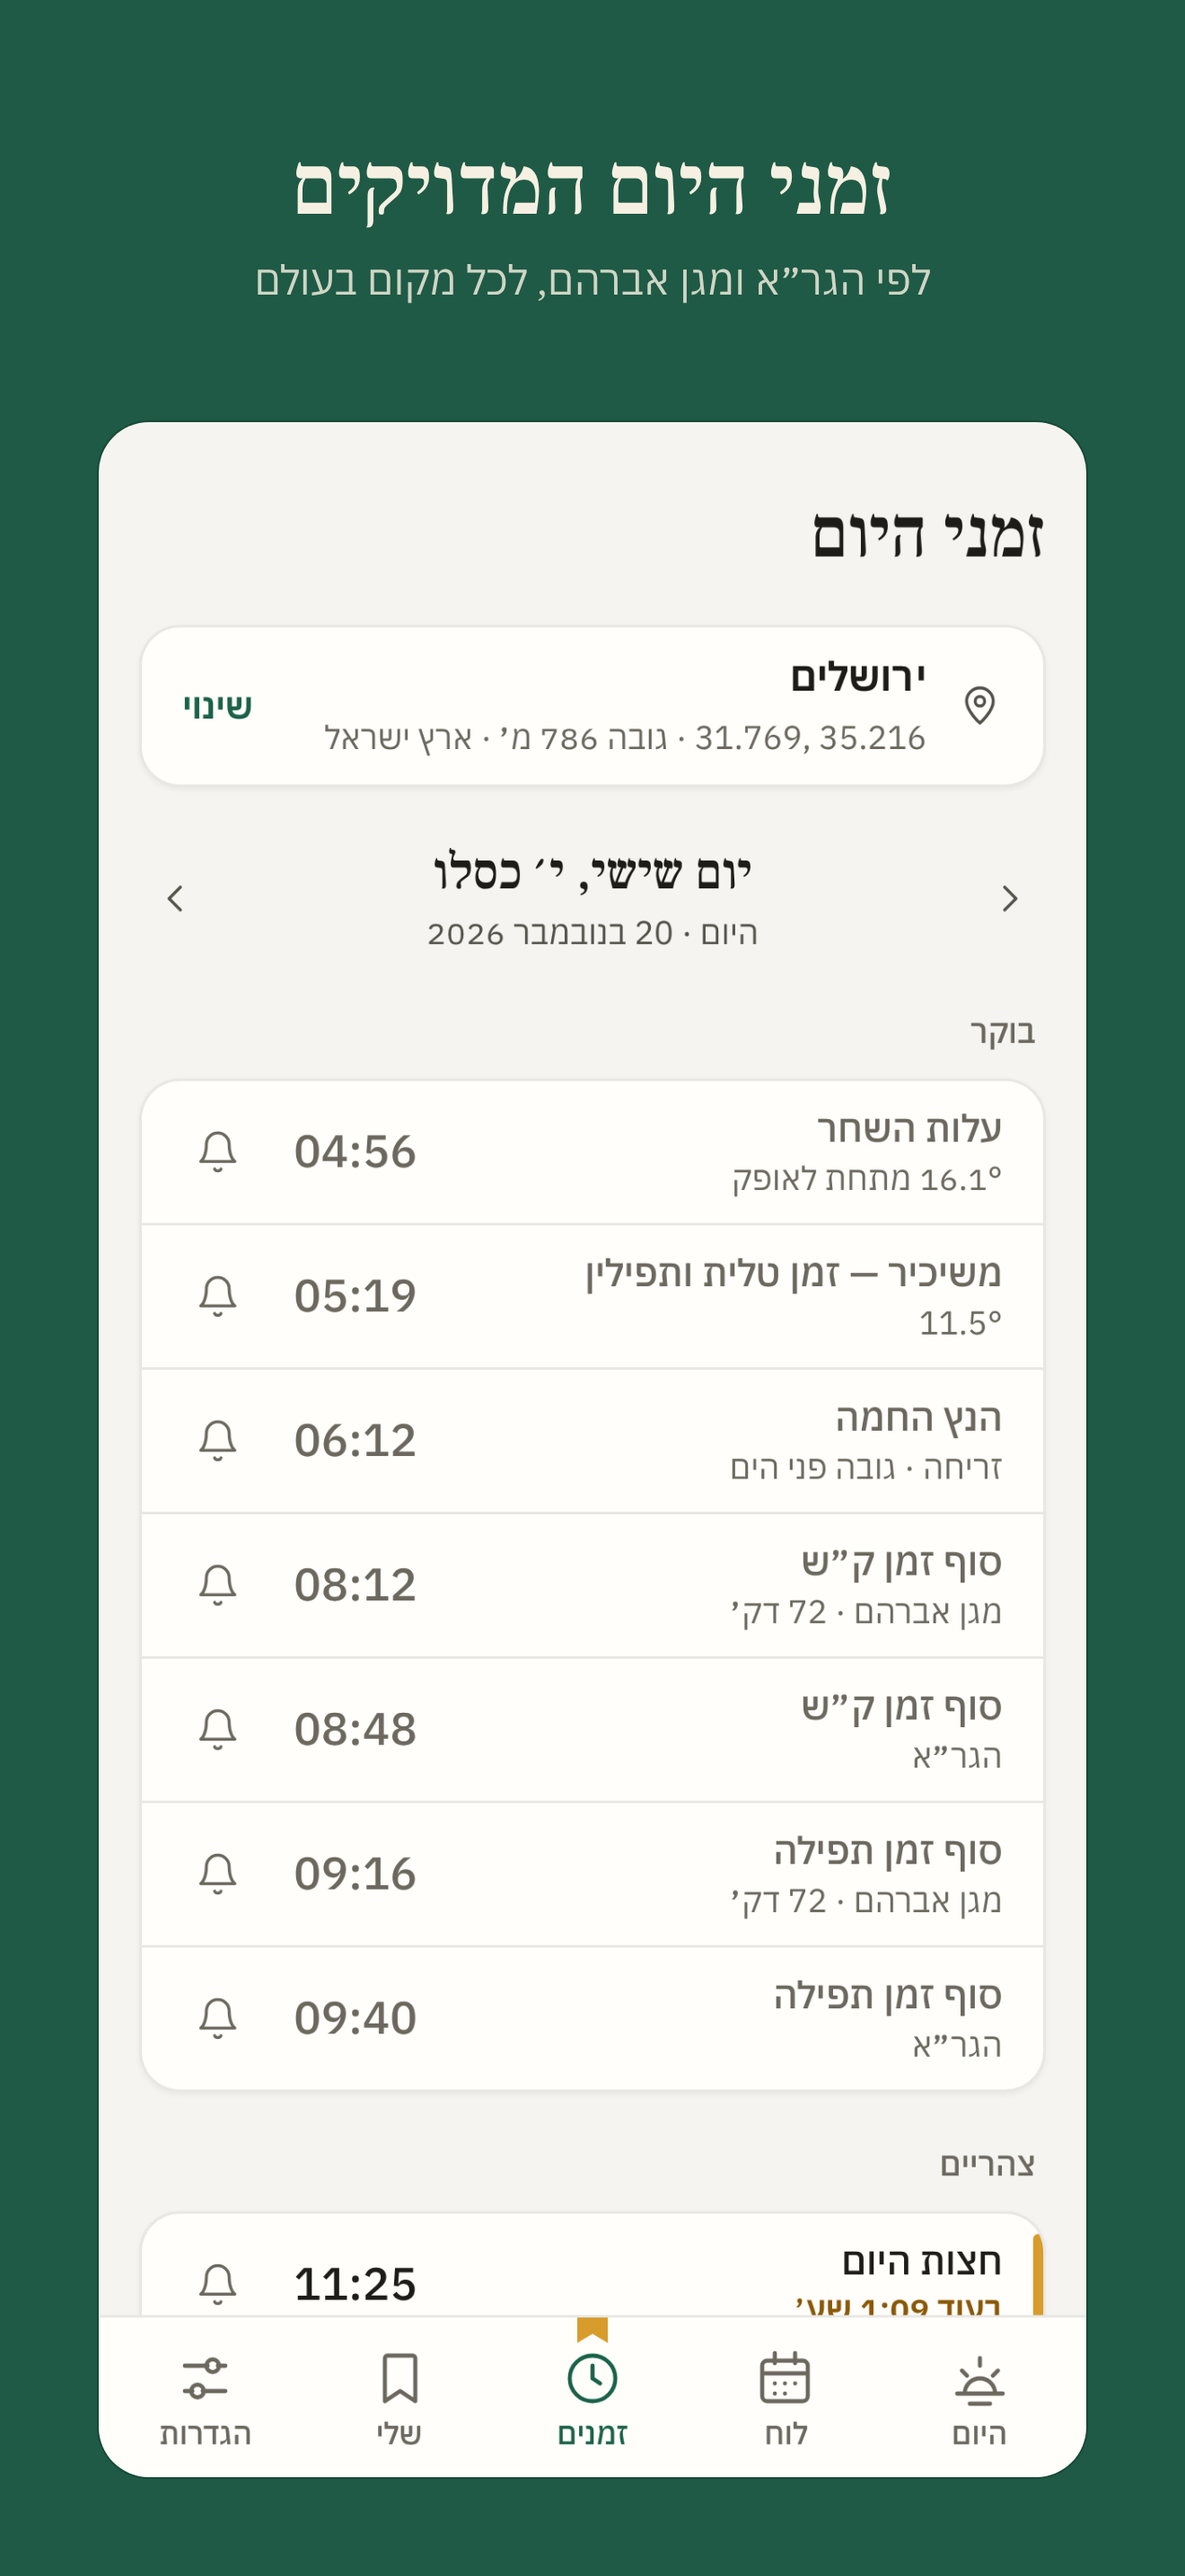
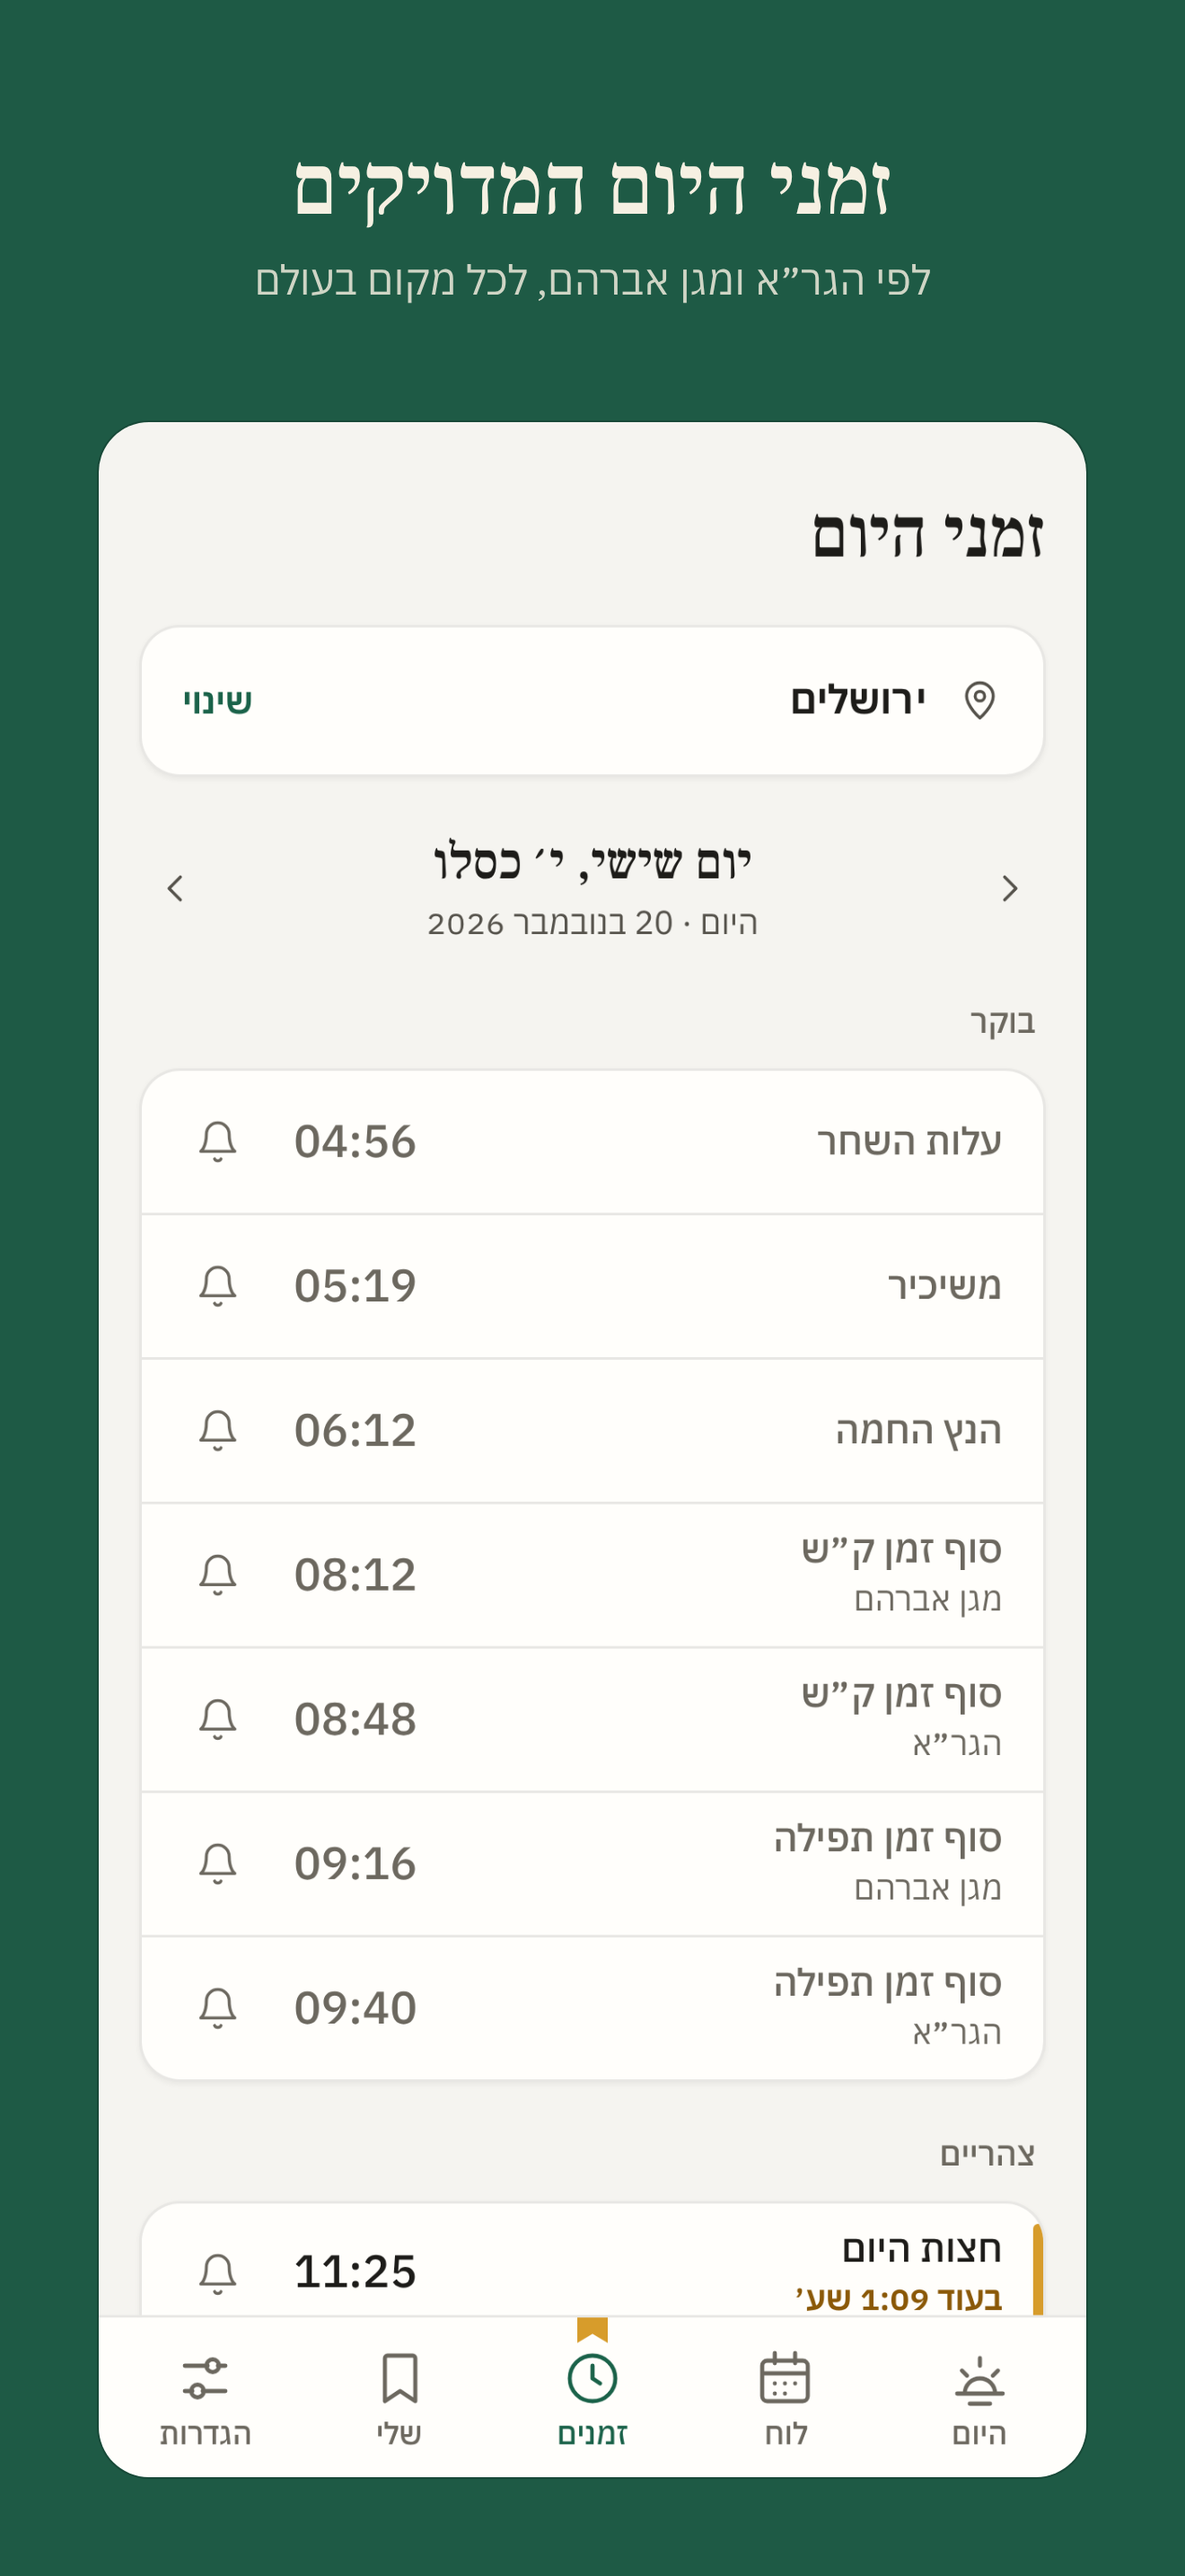
Live sky at the top of Today
- SkyScene behind the date, from the top edge under the status bar (light status icons over it); scrolling
  folds it into a strip that keeps the date in view; on wide screens it's a card.
- The moon at its real place and phase (SunCalc 2: degrees, azimuth from north), not a fixed spot; it sets
  and rises.
- The next-zman card drops the coloured day band (the sky shows it) and keeps sunrise and sunset as text.
- 'תאריך אחר' sits on the sky next to the place.
- Store screenshots retaken.

Claude-Session: https://claude.ai/code/session_017QrNw6QiW1QfANzvZHNAh4

diff --git a/src/components/TodayTab.tsx b/src/components/TodayTab.tsx
@@ -10,7 +10,6 @@ import {
   hebDateStr,
   hebMonthName,
   hebNum,
-  hebYear,
   itemTitle,
   learningLabel,
   prayerNotes,
@@ -23,10 +22,11 @@ import {
   type ZmanRow,
 } from '../lib/cal';
 import type { City } from '../lib/cities';
-import { isHe, lang, tr } from '../lib/i18n';
+import { isHe, tr } from '../lib/i18n';
 import type { MyEvent, Settings } from '../lib/store';
 import { Icon } from './Icon';
-import { agendaRows, dayFrac, dayName, dayRibbon, daysBetween, inTime, nextShabbat, weekParasha, yearsWord, type ShabbatInfo } from './dayinfo';
+import { SkyHeader, SkyScene } from './SkyScene';
+import { agendaRows, dayName, daysBetween, inTime, nextShabbat, weekParasha, yearsWord, type ShabbatInfo } from './dayinfo';
 
 type Z = ReturnType<typeof zmanim>;
 
@@ -53,7 +53,6 @@ const DAY_KINDS = new Set(['yomtov', 'cholhamoed', 'erev', 'fast', 'minor', 'ros
 
 export function TodayTab(p: Props) {
   const { selected, now, city, settings, items, z } = p;
-  const hd = new HDate(selected);
   const isToday = sameDay(selected, now);
   const afterSunset = isToday && now.getTime() > z.sunset.getTime();
   const tonight = new HDate(addDays(selected, 1));
@@ -61,29 +60,13 @@ export function TodayTab(p: Props) {
   const tonightDay = WEEKDAYS[tonightDow];
 
   return (
-    <div className="tab today-tab">
-      <header className="tab-head">
-        <button className="date-title" onClick={p.onJump} aria-label={tr(`${hebDateStr(hd)}. מעבר לתאריך אחר`, `${hebDateStr(hd)}. Go to another date`)}>
-          <span className="dt-sub">
-            {dayName(selected)} · {gregDateStr(selected)}
-          </span>
-          <span className="dt-main">
-            {hebNum(hd.getDate())} {hebMonthName(hd.getMonth(), hd.getFullYear())}
-            <span className="dt-year"> {hebYear(hd.getFullYear())}</span>
-            <Icon name="down" size={18} />
-          </span>
-        </button>
-        <div className="head-chips">
-          <button className="place-chip" onClick={p.onLocation} aria-label={tr(`מיקום${city.id === 'gps' ? ' לפי GPS' : ''}: ${city.name}. שינוי מיקום`, `Location${city.id === 'gps' ? ' (GPS)' : ''}: ${city.name}. Change location`)}>
-            <Icon name={city.id === 'gps' ? 'locate' : 'pin'} size={16} />
-            <span>{city.name}</span>
-          </button>
-          <button className="place-chip jump-chip" onClick={p.onJump}>
-            <Icon name="today" size={16} />
-            <span>{tr('תאריך אחר', 'Other date')}</span>
-          </button>
-        </div>
-      </header>
+    <>
+      <div className="today-sky">
+        <SkyScene selected={selected} now={now} city={city} settings={settings} z={z} items={items} className="card">
+          <SkyHeader selected={selected} city={city} onJump={p.onJump} onLocation={p.onLocation} />
+        </SkyScene>
+      </div>
+    <div className="tab today-tab sky-sheet">
       {afterSunset && (
         <p className="tonight">
           {tr(
@@ -105,6 +88,7 @@ export function TodayTab(p: Props) {
         </div>
       </div>
     </div>
+    </>
   );
 }
 
@@ -209,8 +193,6 @@ function NowHero({ selected, now, city, settings, fmt, z, isToday }: Props & { i
     // eslint-disable-next-line react-hooks/exhaustive-deps
     [dateKey(selected), city, settings.candleMins, settings.havdalah, settings.useElevation],
   );
-  const l = lang();
-  const ribbon = useMemo(() => dayRibbon(selected, z), [z, selected, l]); // eslint-disable-line react-hooks/exhaustive-deps
   const t = now.getTime();
 
   // the next zman of today; after the last one, tomorrow's first. The same zmanim as the day's
@@ -285,26 +267,14 @@ function NowHero({ selected, now, city, settings, fmt, z, isToday }: Props & { i
         </div>
       )}
 
-      <div className="ribbon-wrap">
-        <div className="ribbon" style={{ background: ribbon }} role="img" aria-label={tr(
-            `היום: זריחה ${fmt.format(roundTo(z.sunrise, 'round'))}, שקיעה ${fmt.format(roundTo(z.sunset, 'floor'))}`,
-            `The day: sunrise ${fmt.format(roundTo(z.sunrise, 'round'))}, sunset ${fmt.format(roundTo(z.sunset, 'floor'))}`,
-          )}>
-          {[z.sunrise, z.sunset].map((d, i) => (
-            <i key={i} className="tick" style={{ insetInlineStart: `${dayFrac(d) * 100}%` }} />
-          ))}
-          {isToday && <i className="now-mark" style={{ insetInlineStart: `${dayFrac(now) * 100}%` }} />}
-        </div>
-        <div className="ribbon-labels" aria-hidden="true">
-          <span style={{ insetInlineStart: `${dayFrac(z.sunrise) * 100}%` }}>
-            <b>{fmt.format(roundTo(z.sunrise, 'round'))}</b>
-            {tr('זריחה', 'Sunrise')}
-          </span>
-          <span style={{ insetInlineStart: `${dayFrac(z.sunset) * 100}%` }}>
-            <b>{fmt.format(roundTo(z.sunset, 'floor'))}</b>
-            {tr('שקיעה', 'Sunset')}
-          </span>
-        </div>
+      {/* the colours of the day are in the sky above; here just its two edges */}
+      <div className="sun-times">
+        <span>
+          {tr('זריחה', 'Sunrise')} <b>{fmt.format(roundTo(z.sunrise, 'round'))}</b>
+        </span>
+        <span>
+          {tr('שקיעה', 'Sunset')} <b>{fmt.format(roundTo(z.sunset, 'floor'))}</b>
+        </span>
       </div>
     </section>
   );

diff --git a/src/components/SkyScene.tsx b/src/components/SkyScene.tsx
@@ -21,7 +21,8 @@
  */
 import { useEffect, useLayoutEffect, useMemo, useRef, type ReactNode } from 'react';
 import * as KZ from 'kosher-zmanim';
-import { HDate, addDays, dateKey, daysBetween, fromKey, gregDateStr, hebDateStr, hebMonthName, hebNum, hebYear, moonPhase, sameDay, zmanim, type DayItem } from '../lib/cal';
+import * as SunCalc from 'suncalc';
+import { HDate, addDays, dateKey, daysBetween, fromKey, gregDateStr, hebDateStr, hebMonthName, hebNum, hebYear, sameDay, zmanim, type DayItem } from '../lib/cal';
 import type { City } from '../lib/cities';
 import { isHe, tr } from '../lib/i18n';
 import { skyAt } from '../lib/sky';
@@ -129,8 +130,9 @@ export function SkyScene({ selected, now, city, settings, z, at, children, class
     const sky = rgbOf(skyAt(moment, z).background) as [RGB, RGB, RGB];
     const rise = z.sunrise.getTime();
     const set = z.sunset.getTime();
-    // the Hebrew date moves on at sunset
-    const moon = moonPhase(new HDate(moment > set ? addDays(selected, 1) : selected));
+    // the moon's real place and phase at this moment (SunCalc, after Meeus' Astronomical Algorithms)
+    const mpos = SunCalc.getMoonPosition(new Date(moment), city.lat, city.lon);
+    const mill = SunCalc.getMoonIllumination(new Date(moment));
     const chatzot = z.rows.find((r) => r.id === 'chatzot')?.time.getTime() ?? (rise + set) / 2;
     const late = moment < chatzot ? 1 : Math.max(0, Math.min(1, (moment - (chatzot + 12 * 3600000)) / (40 * 60000)));
     return {
@@ -139,8 +141,11 @@ export function SkyScene({ selected, now, city, settings, z, at, children, class
       set,
       elev: solarElevation(moment, city),
       sky,
-      moonIllum: moon.illum,
-      moonWaxing: moon.waxing,
+      moonIllum: mill.fraction,
+      moonWaxing: mill.phase < 0.5,
+      // SunCalc 2 gives degrees, azimuth clockwise from north; the painter wants it from south, west positive
+      moonAlt: mpos.altitude,
+      moonAz: mpos.azimuth - 180,
       candles: windows.some(([a, b]) => moment >= a && moment < b),
       late,
       clouds: cloudsOf(key),
@@ -270,10 +275,18 @@ export function SkyHeader({ selected, city, onJump, onLocation }: { selected: Da
   const hd = new HDate(selected);
   return (
     <>
-      <button className="sky-place" onClick={onLocation} aria-label={tr(`מיקום: ${city.name}. שינוי מיקום`, `Location: ${city.name}. Change location`)}>
-        <Icon name={city.id === 'gps' ? 'locate' : 'pin'} size={16} />
-        <span>{city.name}</span>
-      </button>
+      <div className="sky-top">
+        <button className="sky-place" onClick={onLocation} aria-label={tr(`מיקום: ${city.name}. שינוי מיקום`, `Location: ${city.name}. Change location`)}>
+          <Icon name={city.id === 'gps' ? 'locate' : 'pin'} size={16} />
+          <span>{city.name}</span>
+        </button>
+        {onJump && (
+          <button className="sky-chip" onClick={onJump}>
+            <Icon name="today" size={16} />
+            <span>{tr('תאריך אחר', 'Other date')}</span>
+          </button>
+        )}
+      </div>
       <button className="sky-date" data-sky-ground onClick={onJump} aria-label={tr(`${hebDateStr(hd)}. מעבר לתאריך אחר`, `${hebDateStr(hd)}. Go to another date`)}>
         <span className="sky-greg" key={'g' + dateKey(selected)}>
           {dayName(selected)} · {gregDateStr(selected)}

diff --git a/src/components/skyPaint.ts b/src/components/skyPaint.ts
@@ -172,9 +172,11 @@ export interface SkyInput {
   elev: number;
   /** the sky's three colours (top, middle, horizon) from skyAt() */
   sky: [RGB, RGB, RGB];
-  /** moon phase of the Hebrew date: 0..1 lit, waxing or waning */
+  /** the moon: lit fraction 0..1, waxing or waning, and its place (degrees; azimuth from south, west positive) */
   moonIllum: number;
   moonWaxing: boolean;
+  moonAlt: number;
+  moonAz: number;
   /** Shabbat or Yom Tov candles are burning (candle lighting → havdalah) */
   candles: boolean;
   /** 0 in the evening → 1 after chatzot halayla (most windows go dark) */
@@ -590,7 +592,8 @@ function paintSlot(slot: Slot, g: Geom, s: SkyInput) {
 
     // stars: bright ones come out first (from ~4° below the horizon), the faint ones by ~12°;
     // a bright moon washes the faintest out, and they dim near the horizon
-    const moonVis = s.moonIllum > 0.02 ? smooth(-1, -6, e) : 0;
+    // seen once the sky darkens, and only while it's above the horizon
+    const moonVis = s.moonIllum > 0.02 && s.moonAlt > 0 ? smooth(-1, -6, e) * clamp01(s.moonAlt / 3) : 0;
     const starsOn = smooth(-3, -12.5, e);
     if (starsOn > 0) {
       const hours = (s.at - s.set) / 3600000;
@@ -618,12 +621,12 @@ function paintSlot(slot: Slot, g: Geom, s: SkyInput) {
       }
     }
 
-    // the moon, in the phase of the Hebrew date; its lit side faces where the sun went down (waxing)
-    // or where it will come up (waning). Its place in the sky is fixed: the app has no lunar ephemeris.
+    // the moon at its real place: east on the morning side (right in Hebrew), height by its altitude;
+    // its lit side faces where the sun went down (waxing) or where it will come up (waning)
     if (moonVis > 0.01) {
-      const mu = 0.74;
-      const cx = g.rtl ? W * (1 - mu) : W * mu;
-      const cy = Math.max(30, yH * 0.32);
+      const east = Math.max(-1, Math.min(1, -s.moonAz / 120)); // 1 = due east-ish, -1 = west
+      const cx = W * (0.5 + (g.rtl ? 0.42 : -0.42) * east);
+      const cy = Math.max(24, yH - 8 - (Math.min(s.moonAlt, 70) / 70) * (yH - 36));
       const r = 10.5;
       const k = s.moonIllum;
       const a = moonVis;

diff --git a/src/components/sky.css b/src/components/sky.css
@@ -131,3 +131,63 @@
     --sky-sheet: 0px;
   }
 }
+
+/* ---------------- in היום ---------------- */
+.sky-top {
+  display: flex;
+  align-items: center;
+  justify-content: space-between;
+  gap: 8px;
+  width: 100%;
+}
+.sky-chip {
+  display: inline-flex;
+  align-items: center;
+  gap: 6px;
+  min-height: 36px;
+  padding: 0 12px;
+  border-radius: 10px;
+  color: var(--sky-ink);
+  background: rgb(251 248 241 / 0.14);
+  box-shadow: inset 0 0 0 1px rgb(251 248 241 / 0.28);
+  font-size: 0.875rem;
+  font-weight: 500;
+  backdrop-filter: blur(6px);
+  transition: background-color 160ms var(--ease);
+}
+.sky-chip:hover {
+  background: rgb(251 248 241 / 0.22);
+}
+/* the sky hangs from the top of the screen, under the status bar; scrolling folds it into a strip that
+   keeps the date in view */
+.today-sky {
+  --sky-sheet: 0px;
+  --sky-h: calc(248px + 32px * var(--text-scale, 1));
+  --sky-strip: calc(64px + 30px * var(--text-scale, 1));
+  position: sticky;
+  top: calc(var(--sky-strip) - var(--sky-h));
+  z-index: 20;
+}
+.today-sky .sky {
+  border-radius: 0 0 20px 20px;
+  box-shadow: 0 1px 0 rgb(0 0 0 / 0.06);
+}
+.today-tab.sky-sheet {
+  margin-top: 0;
+  padding-top: 16px;
+  border-radius: 0;
+  background: transparent;
+}
+/* no page-colour strip under the status bar while the sky is there */
+body:has(.app.tab-today:not(.has-screen))::before {
+  display: none;
+}
+@media (min-width: 960px) {
+  .today-sky {
+    position: static;
+    padding: 24px 24px 0;
+  }
+  .today-sky .sky {
+    border-radius: 20px;
+  }
+}

diff --git a/src/App.tsx b/src/App.tsx
@@ -114,12 +114,13 @@ export default function App() {
     const apply = () => {
       const dark = settings.theme === 'dark' || (settings.theme === 'auto' && !!mq?.matches);
       document.querySelector('meta[name=theme-color]')?.setAttribute('content', dark ? '#131311' : '#F5F4F0');
-      setStatusBar(dark);
+      // on היום the sky runs under the status bar: light icons over it
+      setStatusBar(dark || (tab === 'today' && !screen));
     };
     apply();
     mq?.addEventListener?.('change', apply);
     return () => mq?.removeEventListener?.('change', apply);
-  }, [settings.theme]);
+  }, [settings.theme, tab, screen]); // eslint-disable-line react-hooks/exhaustive-deps
 
   const baseCity = settings.gps ?? settings.place ?? findCity(settings.cityId) ?? DEFAULT_CITY;
   // the listed cities carry an English name for the English interface

diff --git a/src/styles.css b/src/styles.css
@@ -2922,3 +2922,19 @@ button.pair-cell + button.pair-cell {
     animation: none;
   }
 }
+.sun-times {
+  display: flex;
+  justify-content: space-between;
+  gap: 16px;
+  margin-top: 12px;
+  padding-top: 12px;
+  border-top: 1px solid var(--line);
+  color: var(--muted);
+  font-size: 0.875rem;
+}
+.sun-times b {
+  margin-inline-start: 4px;
+  color: var(--ink);
+  font-weight: 500;
+  font-variant-numeric: tabular-nums;
+}
